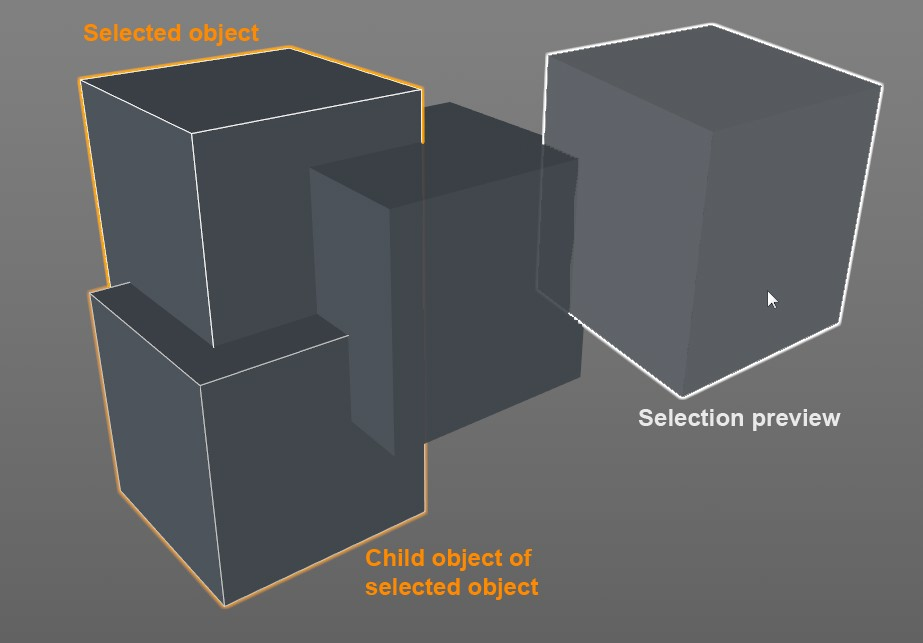
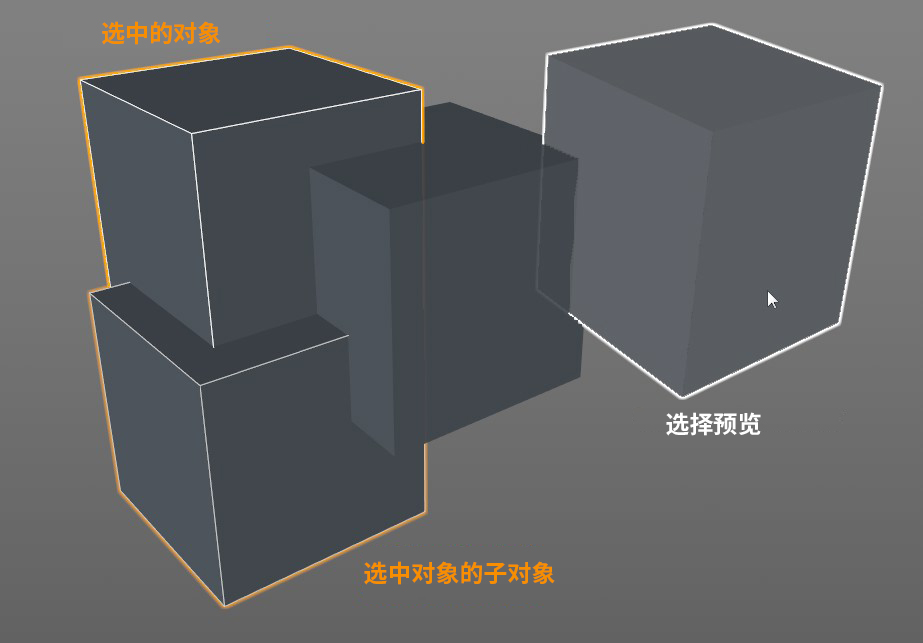
JKC

diff --git a/help/CN/html/5426.html b/help/CN/html/5426.html
@@ -37,7 +37,7 @@
 <p>一个视图面板最多可以显示四个视口（一个场景的视图），每个视口都有它自己的显示设置。</p>
 <p><p><div class="hint"><span class="HL_hint">提示：<br></span>如果摄像机和显示窗中的某个点之间的距离超过100万个单位，视口显示会出错。</div></p>
 <p><img class="pic" src="../pics/012858.jpg" alt="" width="94" height="58"  border="0" hspace="0" ></p>
-<p>在视口右上角有四个图标，点击并按住其中一个，可以进行移动、旋转摄像头、缩放视图的操作，这独立于当前的活动模式。（平板用户需要激活<span class="command">参数</span>菜单的<span class="command">输入设备</span>项中的 <span class="command_value">Graphics Tablet</span> 选项）。最右边的图标可以用来切换活动视图。 </p>
+<p>在视口右上角有四个图标，点击并按住其中一个，可以进行移动、旋转摄像头、缩放视图的操作，这独立于当前的活动模式。（平板用户需要激活<span class="command">参数</span>菜单的<span class="command">输入设备</span>项中的 <span class="command_value">Graphics Tablet</span> 选项。）最右边的图标可以用来切换活动视图。 </p>
 <p><RELEASE_140 Orthogonal views can be rotated around the orthographic axis.></p>
 <p>正交视角的视口也可以绕它的正交轴旋转，摄像机会沿其视图的角度旋转。同时按下 <nobr><span class="key">Shift</span></nobr> 键摄像机会以 15° 的增量进行旋转。 </p>
 <p></RELEASE_140></p>
@@ -47,7 +47,7 @@
 <p><!--INDEX "1","编辑速度",""--></p>
 <p><!--INDEX "1","视口速度",""--></p>
 <p><!--INDEX "1","优化速度",""--></p>
-<p>一个包含许多元素的场景在视口中的导航会很慢，那么怎样解决这个问题呢？</p>
+<p>一个包含许多元素的场景在视口中的导航会很慢，那么怎样解决这个问题呢？</p>
 <p><ul>
 	<li><a href="PREFSOPENGL-PREF_OPENGL_MAIN_GROUP.html" target="">OpenGL 着色</a>是否激活？<br>几乎所有性能优秀的显卡都支持 OpenGL 着色。<br><br></ul><p><ul><li> 场景中是否包含很多每次改变视图都需要重新计算的生成器对象？<br>CINEMA 4D 在简单的多边形下工作是最快的（指那些没有进行变形、细分曲面等操作的对象）。生成器包含细分曲面、挤出对象、参数化几何体、实例、克隆对象等，所有生成器对象都可以用<a href="5667.html" target="">当前状态转对象</a>或<a href="5664.html" target="">转为可编辑对象</a>命令转换为多边形对象。细分曲面和其他生成器可以临时解除效果（在绿色选框上点击）。记住，隐藏元素不一定有用，因为在软件内部这些对象仍然会被渲染。例如，围绕一个球体来阵列克隆对象，这个球体即使被隐藏了也会在内部参与运算，这样克隆对象才能围绕它阵列。<br><br></ul><p><ul><li> 让多边形的数量保持最少。<br>创建一个包含上百万个点的单个对象会使视口卡顿。在场景中不可见的面不需要精细的细分。对对象包含的多边形数量进行优化不仅会提高视口的刷新速度，还会大大减少渲染时间！<br><br></ul><p><ul><li> 避免在场景中放太多对象。<br>CINEMA 4D 有针对显示有多边形数多但对象数量少的显示优化，场景中包含过多对象会减慢视口视图！大量的空对象会减慢视口视图显示速度，就像一个非常复杂的层级结构。可以的话请把它坍塌成单个对象。通过实例或使用克隆对象复制的对象也会像由这些实例或克隆体组成的单个对象一样减慢视口视图。（<a href="5666.html" target="">链接</a>）。 <br>例如，从 CAD 中导入一个房屋，它的每个元素都是单独的对象，对 CINEMA 4D 来说这是最糟糕的方案。通过群组相似对象可以优化这种场景，如120个窗框和120块窗玻璃可以被合并为2个对象（窗框和窗玻璃）。这个<a href="5666.html" target="">链接</a>命令在这里可以发挥很大的作用。确认在你的工作流程中有足够的时间来优化场景。这个优化步骤跟接下来所有完成场景的步骤一样重要。<br><br></ul><p><ul><li> 各种显示模式的经验——尤其是<a href="45030.html#PLUGIN_CMD_13859" target="">细节级别</a>设置。<span class="command">较不精确</span>的细节级别可以让视口视图显示速度<span class="command">较快</span>。<br><br></ul><p><ul><li> <a href="TDISPLAY.html" target="">显示</a>模式可以通过显示标签来为对象层进行定义，它可以减少资源消耗物体可能产生的影响。<br><br></ul><p><ul><li> 你在场景中看到的对象或元素越多，显示的速度就越慢。别忘了对象可以在视口的<span class="command">过滤器</span>菜单中进行隐藏。<br><br></ul><p><ul><li> 不是所有的物体一定要在视口中以高分辨率显示，显示质量可以在视口预设<a href="DBASEDRAW-BASEDRAW_GROUP_DISPLAY.html#BASEDRAW_DATA_DISPLAYINACTIVE_ENABLED" target="">非活动对象</a>标签中降低，也就是说只有活动对象以高质量显示，其他对象则显示为立方体或其他基础几何体。<br><br></ul><p><ul><li> Complex XPresso Expressions 总是参与计算。如果在你的场景中不是真的需要某个 Expression ，请停用相应的 Xpresso 标签。<br><br></ul><p></p>
 <p>

diff --git a/help/CN/html/xxx5860.html b/help/CN/html/xxx5860.html
@@ -5,7 +5,7 @@
 	<head>
 		<meta http-equiv="content-type" content="text/html;charset=utf-8">
 		<meta name="generator" content="WICKIE">
-		<title>Display</title>
+		<title>显示</title>
 		<meta name="FORMATTER" content="wickie">
 		<link href="../../files/wickie.css" type="text/css" rel="stylesheet" media="all">
 		<script type="text/javascript" src="../../files/versionAppender.js"> </script>
@@ -13,7 +13,7 @@
 		<!--PAGE_ID "5860"-->
 		<!--VATER_ID "5426"-->
 		<!--REIHENFOLGE "3"-->
-		<!--TITLE "Display"-->
+		<!--TITLE "显示"-->
 		<!--APPS ""-->
 		<!--TYP ""-->
 	</head>
@@ -22,7 +22,7 @@
 
 
 <!--NO_SEARCH_START-->
-<span class="link_back"><a href="1000.html" target="_self">Manual</a></span> <span class="link_back"><a href="43666.html" target="_self">Reference</a></span> <span class="link_back"><a href="43668.html" target="_self">CINEMA 4D</a></span> <span class="link_back"><a href="1001.html" target="_self">CINEMA 4D Prime</a></span> <span class="link_back"><a href="5426.html" target="_self">Views and Viewports</a></span>
+<span class="link_back"><a href="1000.html" target="_self">手册</a></span> <span class="link_back"><a href="43666.html" target="_self">参考</a></span> <span class="link_back"><a href="43668.html" target="_self">CINEMA 4D</a></span> <span class="link_back"><a href="1001.html" target="_self">CINEMA 4D Prime</a></span> <span class="link_back"><a href="5426.html" target="_self">视图和视口</a></span>
 
 <div class="in-lite-page in-prime-page in-visualize-page in-broadcast-page in-studio-page in-bodypaint3d-page ">  <div class="page_only_body">
 <div class="page_only_apps">             Function available in CINEMA 4D Prime, Visualize, Broadcast, Studio & BodyPaint 3D  </div>

diff --git a/help/CN/html/5852.html b/help/CN/html/5852.html
@@ -5,7 +5,7 @@
 	<head>
 		<meta http-equiv="content-type" content="text/html;charset=utf-8">
 		<meta name="generator" content="WICKIE">
-		<title>视图</title>
+		<title>查看</title>
 		<meta name="FORMATTER" content="wickie">
 		<link href="../../files/wickie.css" type="text/css" rel="stylesheet" media="all">
 		<script type="text/javascript" src="../../files/versionAppender.js"> </script>
@@ -13,7 +13,7 @@
 		<!--PAGE_ID "5852"-->
 		<!--VATER_ID "5426"-->
 		<!--REIHENFOLGE "1"-->
-		<!--TITLE "视图"-->
+		<!--TITLE "查看"-->
 		<!--APPS ""-->
 		<!--TYP ""-->
 	</head>
@@ -26,7 +26,7 @@
 
 <div class="in-lite-page in-prime-page in-visualize-page in-broadcast-page in-studio-page in-bodypaint3d-page ">  <div class="page_only_body">
 <div class="page_only_apps">             Function available in CINEMA 4D Prime, Visualize, Broadcast, Studio & BodyPaint 3D  </div>
-<!--NO_SEARCH_END--><!--INDEX "2","视图",""--><p><span class="HL_group">View</span></p><p></p>
+<!--NO_SEARCH_END--><!--INDEX "2","视图",""--><p><span class="HL_group">查看</span></p><p></p>
 <p><!--INDEX "7","作为渲染视图","PLUGIN_Cmd_13931"--><!--COMMAND "PLUGIN_Cmd_13931"--><img class="cmd_icon" src="../icons/PLUGIN_Cmd_13931.png" alt="" height="24" width="24"    border="1"> <a id="PLUGIN_Cmd_13931" name="PLUGIN_Cmd_13931"></a>   <span class="c4d_menu_id">作为渲染视图</span> </p>
 <p>如果选择了这个选项，活动摄像机会在图片查看器中被用来渲染。</p>
 <p><p><div class="hint"><span class="HL_hint">提示：<br></span>使用这个设置来确定在<a href="5701.html" target="">图片查看器</a>中哪个视图会被用作渲染。</div></p>
